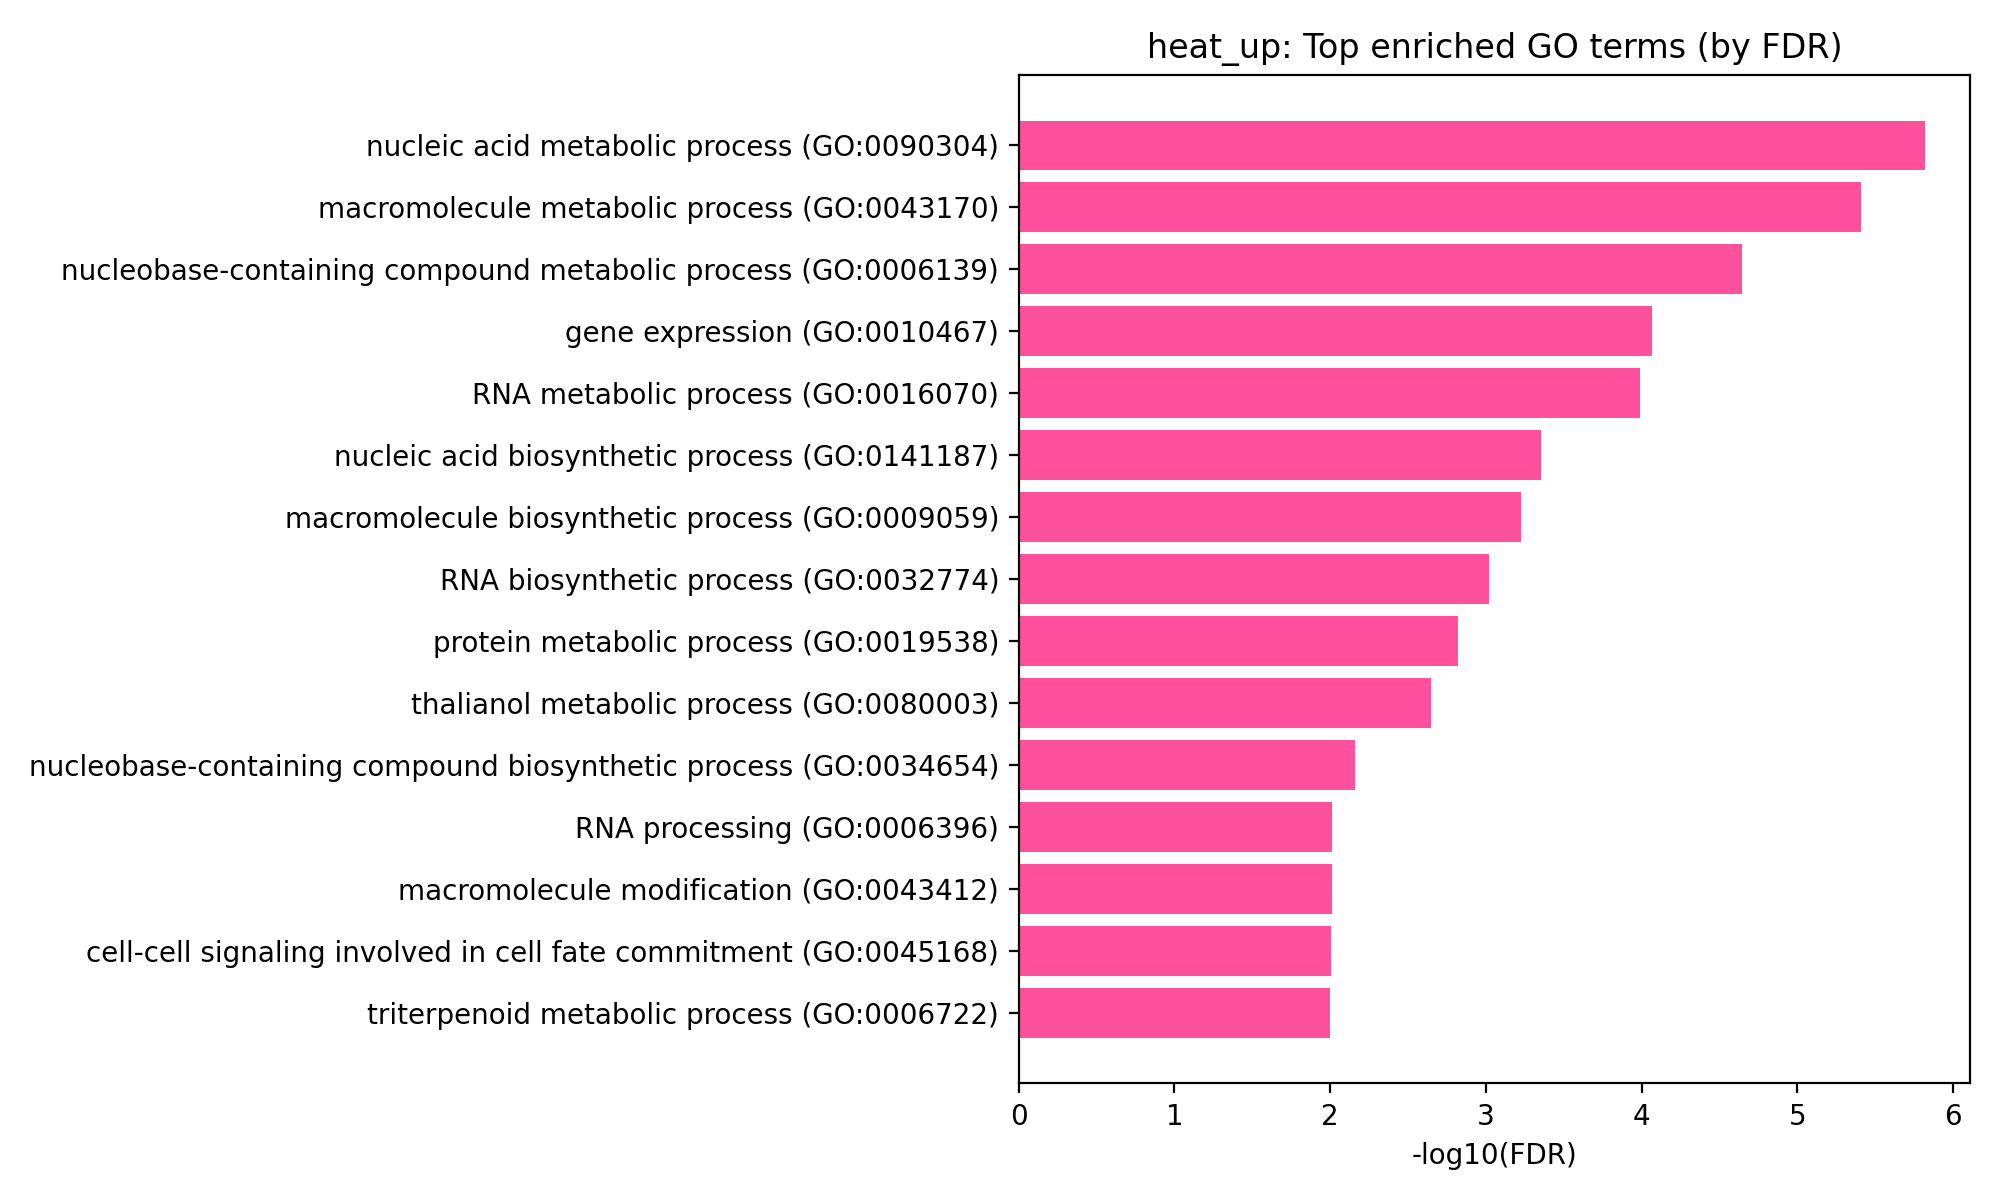
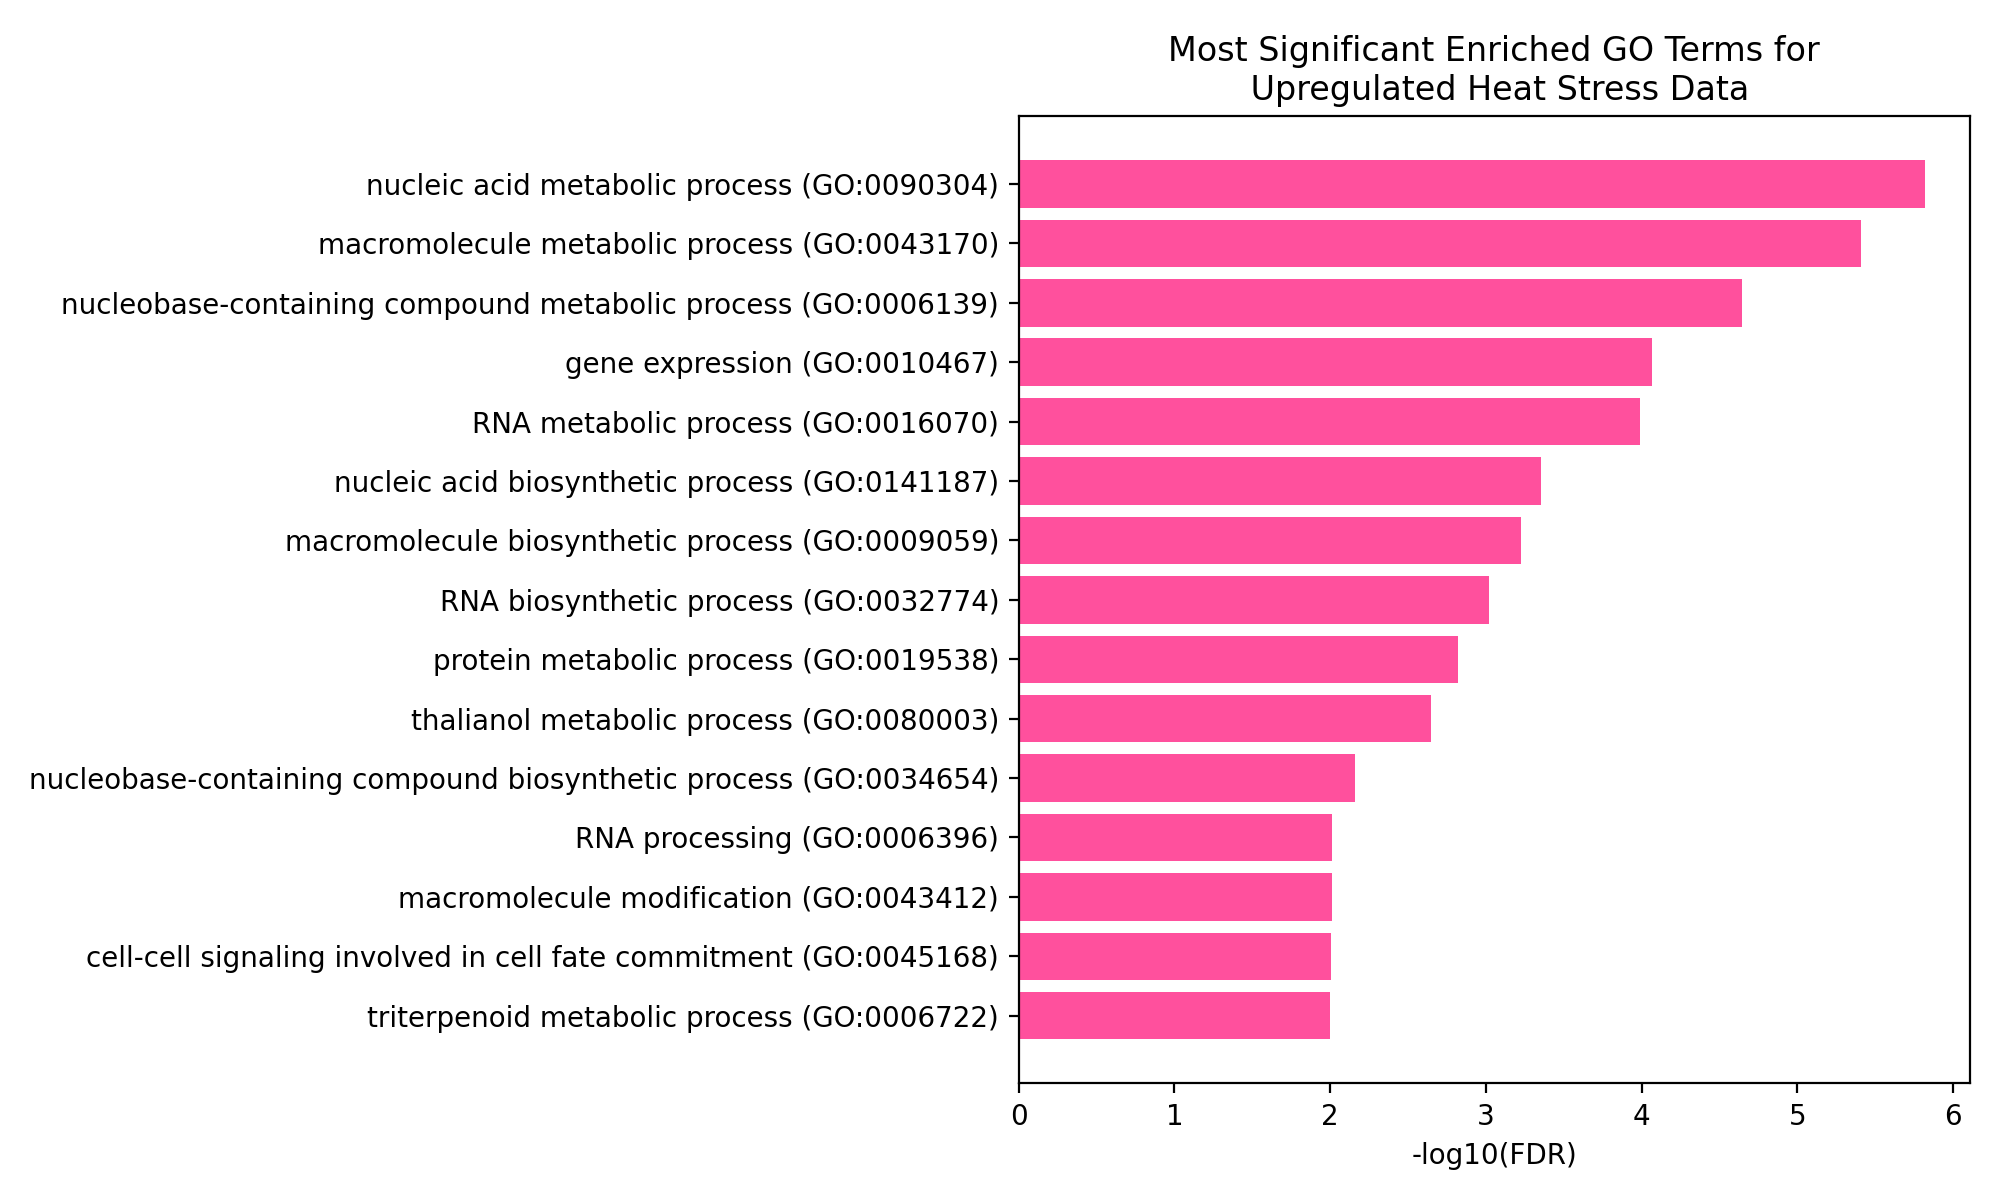
changed titles, fixed normalization data format

Changed region(s): [[0.0, 0.0308, 0.992, 0.8325], [0.186, 0.8325, 0.496, 0.8633]]

diff --git a/working-set/panther_plots.py b/working-set/panther_plots.py
@@ -39,6 +39,13 @@ def main():
     }
     sigs = {k: pd.read_csv(v, sep="\t") for k, v in sig_files.items()}
 
+    full_names = {
+        "heat_up": "Upregulated Heat",
+        "heat_down": "Downregulated Heat",
+        "salt_up": "Upregulated Salt",
+        "salt_down": "Downregulated Salt",
+    }
+
     # Load combined top15 if present (preferred for heatmap)
     combined_path = export_dir / "all_conditions_GO_top15.csv"
     combined = pd.read_csv(combined_path) if combined_path.exists() else None
@@ -47,14 +54,14 @@ def main():
     for cond, df in tops.items():
         plot_top15_bar(
             df,
-            title=f"{cond}: Most Significant Enriched GO Terms",
+            title=f"Most Significant Enriched GO Terms for\n {full_names[cond]} Stress Data",
             outpath=plots_dir / f"{cond}_top15_bar.png"
         )
 
     # Plot 5: significant term counts per condition
     counts = plot_sig_term_counts(
         sigs,
-        title="Number of Enriched GO Terms Per Condition",
+        title="Significant GO Term Counts Across Heat/Salt and Up/Down-Regulated Sets",
         outpath=plots_dir / "sig_term_counts.png"
     )
 
@@ -70,7 +77,7 @@ def main():
     if combined is not None:
         plot_heatmap_from_combined(
             combined,
-            title="Top GO Terms Across Conditions",
+            title="Combined Significant GO Terms (FDR ≤ 0.05)\n Across Heat/Salt and Up/Down-Regulated Sets",
             outpath=plots_dir / "top_terms_heatmap.png"
         )
 

diff --git a/working-set/overlap_normalization.py b/working-set/overlap_normalization.py
@@ -38,8 +38,8 @@ def overlap_stats(A: set, B: set):
     # use jaccard normalization method
     jaccard = len(inter) / len(union) if union else 0.0
     overlap_coeff = len(inter) / min(len(A), len(B)) if min(len(A), len(B)) else 0.0
-    pct_A = len(inter) / len(A) if len(A) else 0.0
-    pct_B = len(inter) / len(B) if len(B) else 0.0
+    pct_A = len(inter) / len(A) * 100 if len(A) else 0.0
+    pct_B = len(inter) / len(B) * 100 if len(B) else 0.0
     return {
         "n_A": len(A),
         "n_B": len(B),
